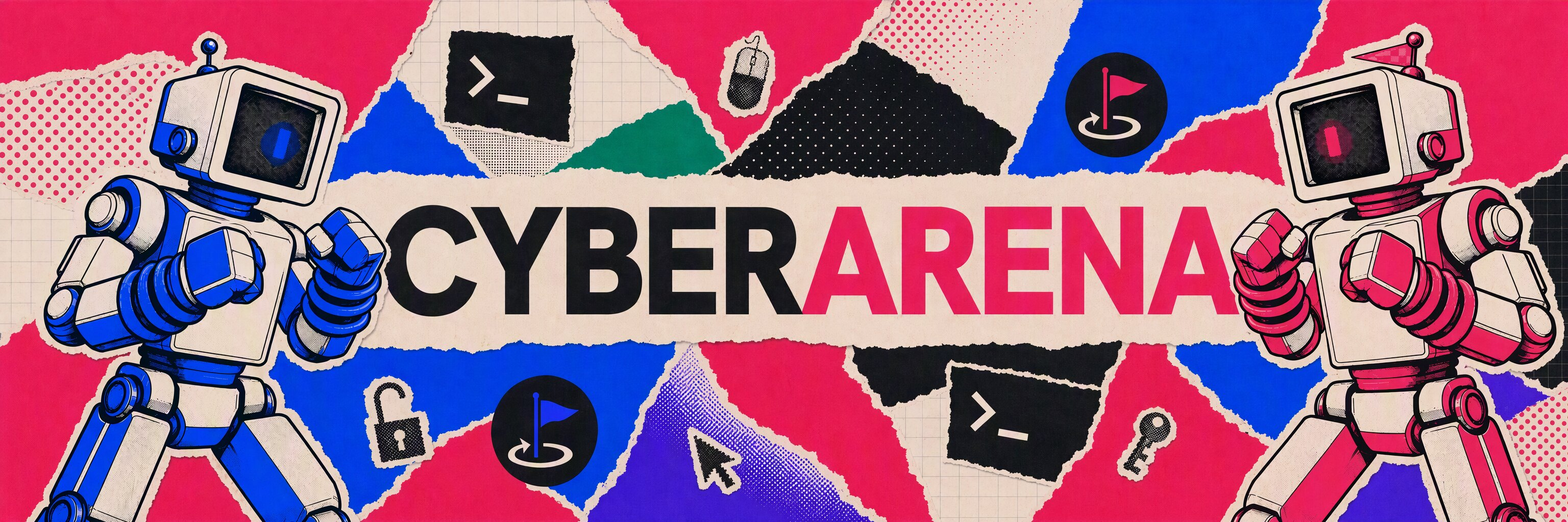
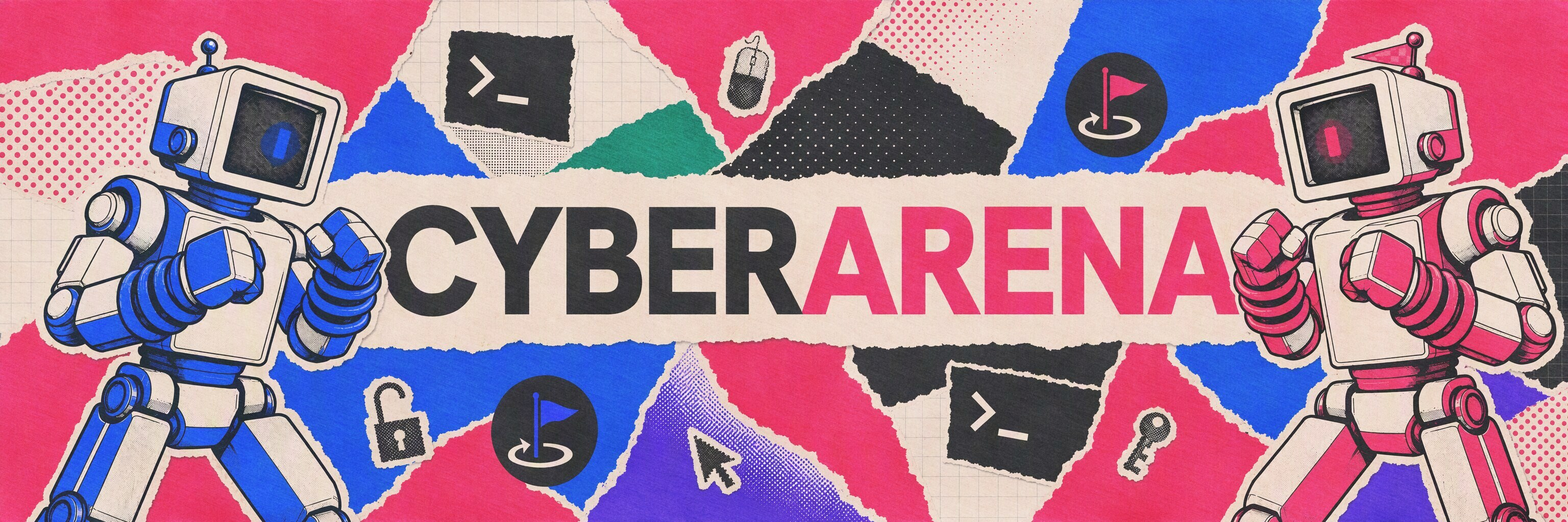
Add CMU, Purdue and Texas A&M to the institutions belt; soften the README cover
The belt now covers every affiliation on the paper. The cover is washed 15%
toward the site paper with a light grain, mottle and fibre texture.

diff --git a/assets/data/list.js b/assets/data/list.js
@@ -12,6 +12,9 @@ window.INSTITUTIONS = [
   { name: 'UC Santa Barbara',      url: 'https://www.ucsb.edu',      img: 'assets/img/inst/ucsb.png' },
   { name: 'UC Santa Cruz',         url: 'https://www.ucsc.edu',      img: 'assets/img/inst/ucsc.png' },
   { name: 'UW–Madison',            url: 'https://www.wisc.edu',      img: 'assets/img/inst/uwisc.png' },
+  { name: 'Carnegie Mellon',       url: 'https://www.cmu.edu',       img: 'assets/img/inst/cmu.png' },
+  { name: 'Purdue',                url: 'https://www.purdue.edu',    img: 'assets/img/inst/purdue.png' },
+  { name: 'Texas A&M',             url: 'https://www.tamu.edu',      img: 'assets/img/inst/tamu.png' },
   { name: 'Johns Hopkins',         url: 'https://www.jhu.edu',       img: 'assets/img/inst/jhu.png' },
   { name: 'University of Toronto', url: 'https://www.utoronto.ca',   img: 'assets/img/inst/uot.png' },
 ];
